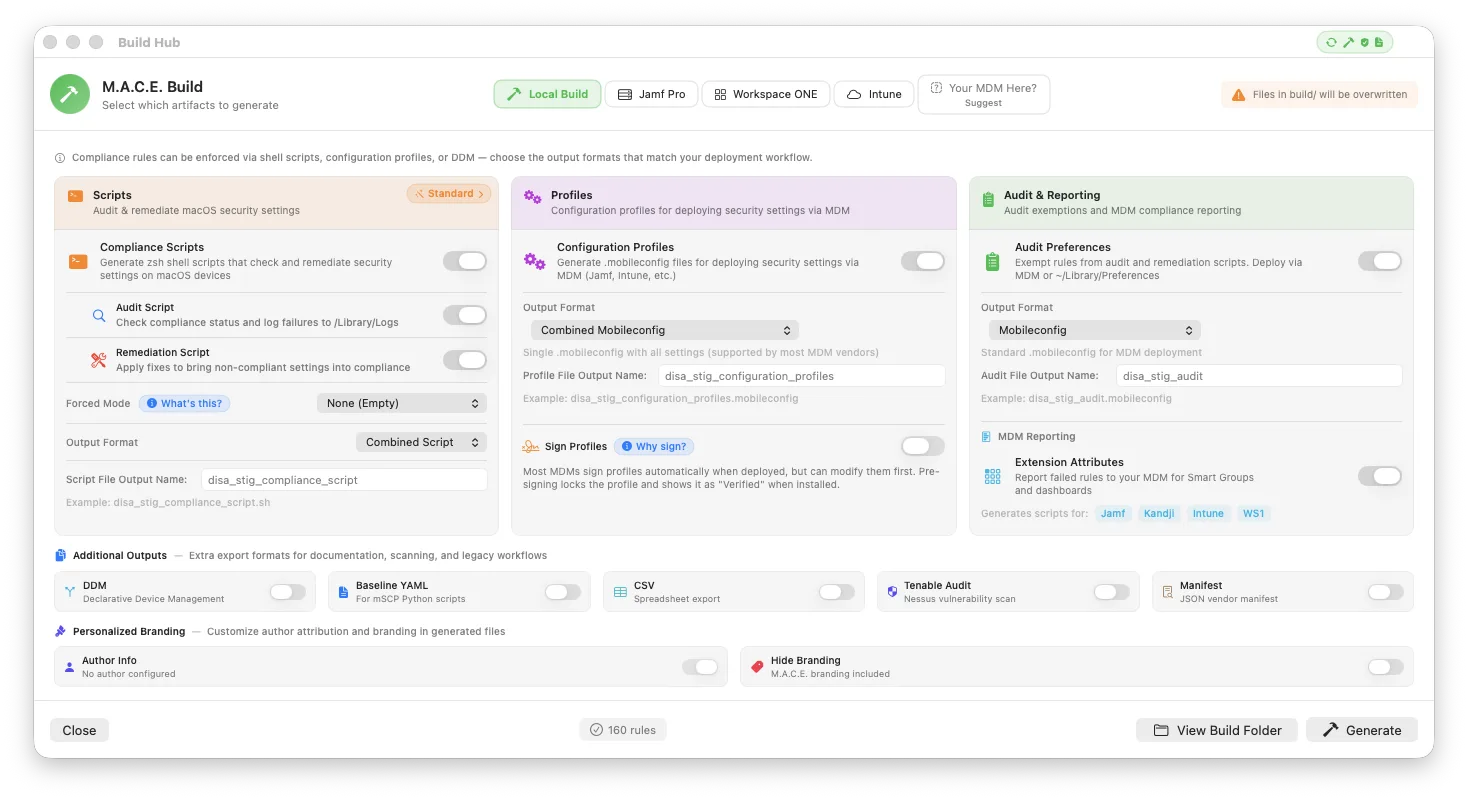
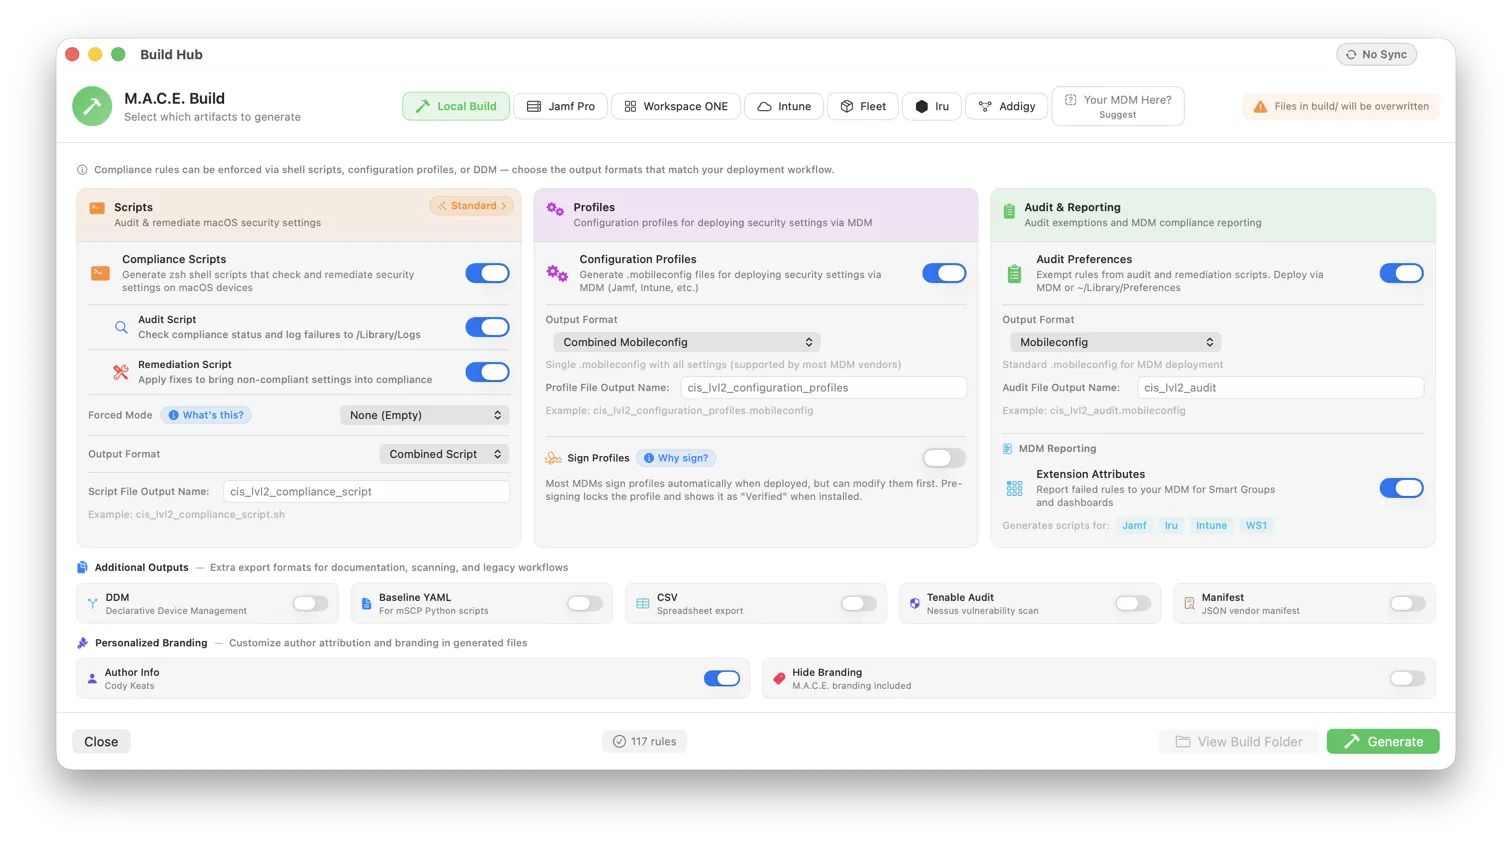
Updates

diff --git a/README.md b/README.md
@@ -190,14 +190,14 @@ M.A.C.E. (macOS Advanced Compliance Editor) is a native macOS app that simplifie
     <img alt="MACE Build Hub" src=".github/images/build-light.webp" width="700">
   </picture>
 </p>
-<p align="center"><em>Build hub & artifact generation</em></p>
+<p align="center"><em>Build hub — pick a target, choose which artifacts to generate, and customize output names and branding</em></p>
 
 #### Script Generation
 | Output | Description |
 |--------|-------------|
 | Audit Scripts | Shell scripts for compliance checking |
 | Remediation Scripts | Shell scripts to fix non-compliant settings |
-| Extension Attributes | Scripts for Jamf Pro and other MDMs |
+| Extension Attributes | Report failed rules to your MDM for smart groups and dashboards (Jamf, Iru, Intune, WS1) |
 
 #### Configuration Profiles
 | Format | Use Case |
@@ -237,11 +237,11 @@ M.A.C.E. (macOS Advanced Compliance Editor) is a native macOS app that simplifie
 | **Jamf Pro** | Upload profiles, scripts, and extension attributes directly (Basic Auth & OAuth) |
 | **Workspace ONE** | Upload profiles, scripts, and sensors directly (Basic Auth, OAuth2 & Token) |
 | **Microsoft Intune** | Upload profiles, scripts, and custom attributes directly (Tenant/Client auth) |
-| **Iru** | Profile and script export |
 | **Fleet** | Profile and script export |
+| **Iru** | Profile and script export |
 | **Addigy** | Profile and script export |
 
-More MDM targets are always on the table. Adding one isn't purely up to M.A.C.E., though — the vendor has to expose the right API options before direct upload is possible, and demand from users of that platform is what decides which ones get built first. If you'd like to see your MDM supported, [open an issue](https://github.com/MACE-App/MACE/issues) — and asking your vendor for the API access it needs helps just as much.
+More MDM targets are always on the table — the Build Hub has a **Your MDM Here? Suggest** button for exactly that. Adding one isn't purely up to M.A.C.E., though: the vendor has to expose the right API options before direct upload is possible, and demand from users of that platform is what decides which ones get built first. If you'd like to see your MDM supported, suggest it in the app or [open an issue](https://github.com/MACE-App/MACE/issues) — and asking your vendor for the API access it needs helps just as much.
 
 #### Build Options
 - Configurable output options per artifact type
@@ -287,7 +287,7 @@ More MDM targets are always on the table. Adding one isn't purely up to M.A.C.E.
     <img alt="MACE Documentation Hub" src=".github/images/documentation-light.webp" width="700">
   </picture>
 </p>
-<p align="center"><em>Documentation generation options</em></p>
+<p align="center"><em>Live documentation preview — switch formats, search the document, toggle raw source, and change content options in real time</em></p>
 
 #### Documentation Types
 | Type | Description |
@@ -311,6 +311,8 @@ More MDM targets are always on the table. Adding one isn't purely up to M.A.C.E.
 | JSON | Structured data for automation and integrations |
 
 #### Documentation Options
+- Live rendered preview that updates in real time as you change options, with a raw source toggle
+- Search the rendered document to jump straight to any rule or section
 - Configurable content: discussions, check procedures, remediation, references, platform info
 - Author, organization, benchmark name, and timestamp metadata
 - Both MACE and mSCP documentation engines available
